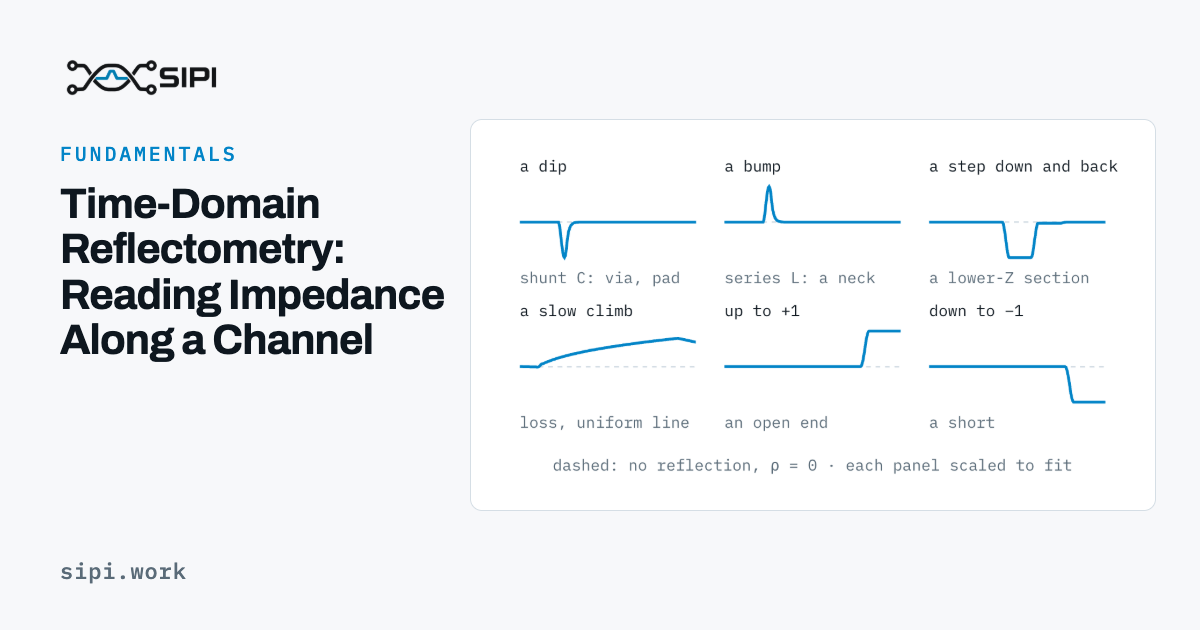
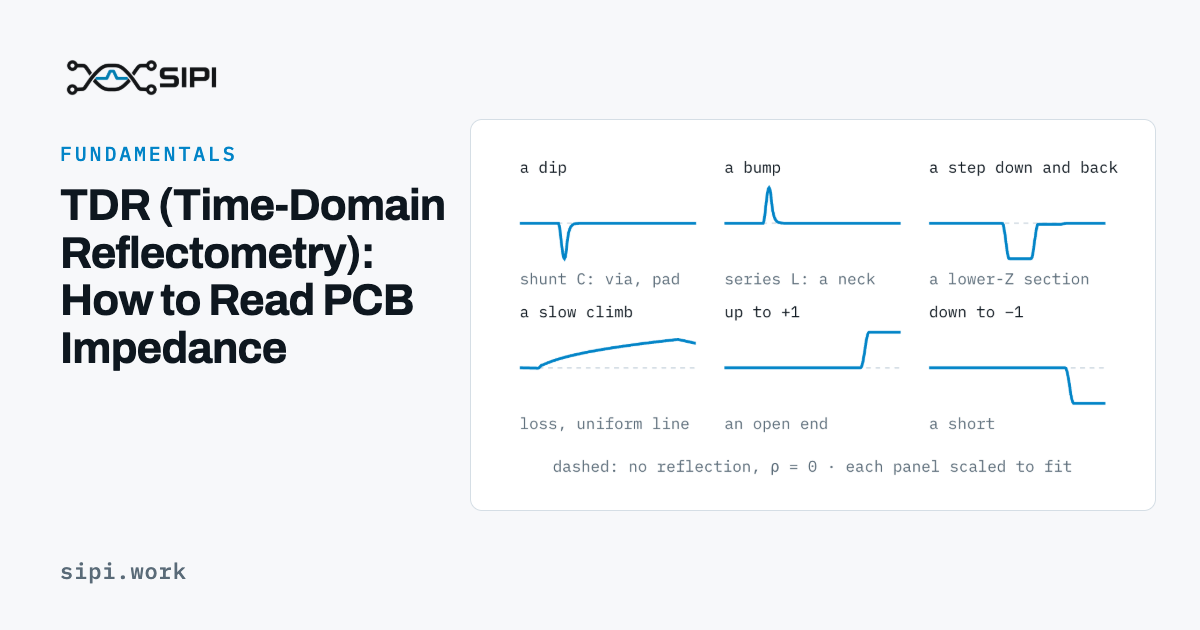
TDR page: an SEO title, TDR (Time-Domain Reflectometry): How to Read PCB Impedance
The search term leads, the full term follows, and the intent (reading PCB
impedance) is in the title; the URL is unchanged.

diff --git a/topics/fundamentals/tdr.html b/topics/fundamentals/tdr.html
@@ -7,7 +7,7 @@
   <meta name="theme-color" content="#F7F8FA">
   <script>(function(){try{var t=localStorage.getItem('sipi-theme');if(t==='dark'||t==='system'){document.documentElement.setAttribute('data-theme',t);var m=document.querySelector('meta[name=theme-color]');if(m&&(t==='dark'||matchMedia('(prefers-color-scheme:dark)').matches))m.content='#0B1015';}}catch(e){}})();</script>
   <!-- theme:end -->
-<title>Time-Domain Reflectometry: Reading Impedance Along a Channel | SIPI</title>
+<title>TDR (Time-Domain Reflectometry): How to Read PCB Impedance | SIPI</title>
 <meta name="description" content="How a TDR turns reflections into an impedance map of a channel: reading dips, bumps and steps, why the edge limits resolution, why loss and masking distort the reading, and how to measure a via from the area of its dip.">
 <link rel="preconnect" href="https://fonts.googleapis.com">
 <link rel="preconnect" href="https://fonts.gstatic.com" crossorigin>
@@ -19,20 +19,20 @@
   <link rel="describedby" href="https://sipi.work/llms.txt" type="text/markdown">
   <meta property="og:type" content="article">
   <meta property="og:site_name" content="SIPI">
-  <meta property="og:title" content="Time-Domain Reflectometry: Reading Impedance Along a Channel | SIPI">
+  <meta property="og:title" content="TDR (Time-Domain Reflectometry): How to Read PCB Impedance | SIPI">
   <meta property="og:description" content="How a TDR turns reflections into an impedance map of a channel: reading dips, bumps and steps, why the edge limits resolution, why loss and masking distort the reading, and how to measure a via from the area of its dip.">
   <meta property="og:url" content="https://sipi.work/topics/fundamentals/tdr.html">
   <meta property="og:image" content="https://sipi.work/assets/og/fundamentals/tdr.png">
   <meta property="og:image:width" content="1200">
   <meta property="og:image:height" content="630">
-  <meta property="og:image:alt" content="Time-Domain Reflectometry: Reading Impedance Along a Channel: a figure from the page, on SIPI">
+  <meta property="og:image:alt" content="TDR (Time-Domain Reflectometry): How to Read PCB Impedance: a figure from the page, on SIPI">
   <meta name="twitter:card" content="summary_large_image">
-  <meta name="twitter:title" content="Time-Domain Reflectometry: Reading Impedance Along a Channel | SIPI">
+  <meta name="twitter:title" content="TDR (Time-Domain Reflectometry): How to Read PCB Impedance | SIPI">
   <meta name="twitter:description" content="How a TDR turns reflections into an impedance map of a channel: reading dips, bumps and steps, why the edge limits resolution, why loss and masking distort the reading, and how to measure a via from the area of its dip.">
   <meta name="twitter:image" content="https://sipi.work/assets/og/fundamentals/tdr.png">
-  <meta name="twitter:image:alt" content="Time-Domain Reflectometry: Reading Impedance Along a Channel: a figure from the page, on SIPI">
-  <script type="application/ld+json">{"@context":"https://schema.org","@type":"TechArticle","headline":"Time-Domain Reflectometry: Reading Impedance Along a Channel","description":"How a TDR turns reflections into an impedance map of a channel: reading dips, bumps and steps, why the edge limits resolution, why loss and masking distort the reading, and how to measure a via from the area of its dip.","url":"https://sipi.work/topics/fundamentals/tdr.html","articleSection":"Fundamentals","isPartOf":{"@type":"WebSite","name":"SIPI","url":"https://sipi.work/"},"author":{"@type":"Person","name":"Geetansh Arora","jobTitle":"Principal SI/PI Engineer","url":"https://www.linkedin.com/in/geetansh-arora-a645714a/","sameAs":["https://www.linkedin.com/in/geetansh-arora-a645714a/"]},"publisher":{"@type":"Person","name":"Geetansh Arora"},"dateModified":"2026-10-01","image":"https://sipi.work/assets/og/fundamentals/tdr.png"}</script>
-  <script type="application/ld+json">{"@context":"https://schema.org","@type":"BreadcrumbList","itemListElement":[{"@type":"ListItem","position":1,"name":"SIPI","item":"https://sipi.work/"},{"@type":"ListItem","position":2,"name":"Fundamentals","item":"https://sipi.work/#fundamentals"},{"@type":"ListItem","position":3,"name":"Time-Domain Reflectometry: Reading Impedance Along a Channel"}]}</script>
+  <meta name="twitter:image:alt" content="TDR (Time-Domain Reflectometry): How to Read PCB Impedance: a figure from the page, on SIPI">
+  <script type="application/ld+json">{"@context":"https://schema.org","@type":"TechArticle","headline":"TDR (Time-Domain Reflectometry): How to Read PCB Impedance","description":"How a TDR turns reflections into an impedance map of a channel: reading dips, bumps and steps, why the edge limits resolution, why loss and masking distort the reading, and how to measure a via from the area of its dip.","url":"https://sipi.work/topics/fundamentals/tdr.html","articleSection":"Fundamentals","isPartOf":{"@type":"WebSite","name":"SIPI","url":"https://sipi.work/"},"author":{"@type":"Person","name":"Geetansh Arora","jobTitle":"Principal SI/PI Engineer","url":"https://www.linkedin.com/in/geetansh-arora-a645714a/","sameAs":["https://www.linkedin.com/in/geetansh-arora-a645714a/"]},"publisher":{"@type":"Person","name":"Geetansh Arora"},"dateModified":"2026-10-01","image":"https://sipi.work/assets/og/fundamentals/tdr.png"}</script>
+  <script type="application/ld+json">{"@context":"https://schema.org","@type":"BreadcrumbList","itemListElement":[{"@type":"ListItem","position":1,"name":"SIPI","item":"https://sipi.work/"},{"@type":"ListItem","position":2,"name":"Fundamentals","item":"https://sipi.work/#fundamentals"},{"@type":"ListItem","position":3,"name":"TDR (Time-Domain Reflectometry): How to Read PCB Impedance"}]}</script>
   <!-- meta:end -->
 </head>
 <body>
@@ -52,11 +52,11 @@
 <main>
   <div class="page-head">
     <p class="crumb"><a href="../../index.html#fundamentals">Fundamentals</a> / 05</p>
-    <h1>Time-Domain Reflectometry: Reading Impedance Along a Channel</h1>
+    <h1>TDR (Time-Domain Reflectometry): How to Read PCB Impedance</h1>
     <p class="byline">
       <!-- review:start --><span>By <a href="https://www.linkedin.com/in/geetansh-arora-a645714a/" target="_blank" rel="author noopener">Geetansh Arora</a> — Principal SI/PI Engineer</span><time datetime="2026-10-01" title="Technical review by Geetansh Arora on this date">1 Oct 2026</time><span>10 min</span><!-- review:end -->
     </p>
-    <!-- share:head:start --><div class="share share--head" data-share data-share-url="https://sipi.work/topics/fundamentals/tdr.html" data-share-title="Time-Domain Reflectometry: Reading Impedance Along a Channel"><span class="share__label">Share</span><a class="share__btn" href="https://www.linkedin.com/sharing/share-offsite/?url=https%3A%2F%2Fsipi.work%2Ftopics%2Ffundamentals%2Ftdr.html" target="_blank" rel="noopener">LinkedIn</a><a class="share__btn" href="https://x.com/intent/post?url=https%3A%2F%2Fsipi.work%2Ftopics%2Ffundamentals%2Ftdr.html&amp;text=Time-Domain%20Reflectometry%3A%20Reading%20Impedance%20Along%20a%20Channel" target="_blank" rel="noopener">X</a><a class="share__btn" href="mailto:?subject=Time-Domain%20Reflectometry%3A%20Reading%20Impedance%20Along%20a%20Channel&amp;body=https%3A%2F%2Fsipi.work%2Ftopics%2Ffundamentals%2Ftdr.html" target="_blank" rel="noopener">Email</a><button class="share__btn" type="button" data-act="copy-link">Copy link</button><button class="share__btn" type="button" data-act="share-native" hidden>Share…</button></div><!-- share:head:end -->
+    <!-- share:head:start --><div class="share share--head" data-share data-share-url="https://sipi.work/topics/fundamentals/tdr.html" data-share-title="TDR (Time-Domain Reflectometry): How to Read PCB Impedance"><span class="share__label">Share</span><a class="share__btn" href="https://www.linkedin.com/sharing/share-offsite/?url=https%3A%2F%2Fsipi.work%2Ftopics%2Ffundamentals%2Ftdr.html" target="_blank" rel="noopener">LinkedIn</a><a class="share__btn" href="https://x.com/intent/post?url=https%3A%2F%2Fsipi.work%2Ftopics%2Ffundamentals%2Ftdr.html&amp;text=TDR%20%28Time-Domain%20Reflectometry%29%3A%20How%20to%20Read%20PCB%20Impedance" target="_blank" rel="noopener">X</a><a class="share__btn" href="mailto:?subject=TDR%20%28Time-Domain%20Reflectometry%29%3A%20How%20to%20Read%20PCB%20Impedance&amp;body=https%3A%2F%2Fsipi.work%2Ftopics%2Ffundamentals%2Ftdr.html" target="_blank" rel="noopener">Email</a><button class="share__btn" type="button" data-act="copy-link">Copy link</button><button class="share__btn" type="button" data-act="share-native" hidden>Share…</button></div><!-- share:head:end -->
     <p class="answer">
       A time-domain reflectometer sends a fast step into a channel and records what comes back. Every change in
       impedance returns part of the step, and it returns after the time it takes to get there and back, so the trace
@@ -362,7 +362,7 @@
       <li><a href="../labs/one-channel.html">Lab B: Channel Response, ISI, and Eye Diagrams</a> — a TDR beside the eye it explains</li>
     </ul>
   </div>
-  <!-- share:foot:start --><div class="share share--foot" data-share data-share-url="https://sipi.work/topics/fundamentals/tdr.html" data-share-title="Time-Domain Reflectometry: Reading Impedance Along a Channel"><span class="share__label">Share</span><a class="share__btn" href="https://www.linkedin.com/sharing/share-offsite/?url=https%3A%2F%2Fsipi.work%2Ftopics%2Ffundamentals%2Ftdr.html" target="_blank" rel="noopener">LinkedIn</a><a class="share__btn" href="https://x.com/intent/post?url=https%3A%2F%2Fsipi.work%2Ftopics%2Ffundamentals%2Ftdr.html&amp;text=Time-Domain%20Reflectometry%3A%20Reading%20Impedance%20Along%20a%20Channel" target="_blank" rel="noopener">X</a><a class="share__btn" href="mailto:?subject=Time-Domain%20Reflectometry%3A%20Reading%20Impedance%20Along%20a%20Channel&amp;body=https%3A%2F%2Fsipi.work%2Ftopics%2Ffundamentals%2Ftdr.html" target="_blank" rel="noopener">Email</a><button class="share__btn" type="button" data-act="copy-link">Copy link</button><button class="share__btn" type="button" data-act="share-native" hidden>Share…</button></div><!-- share:foot:end -->
+  <!-- share:foot:start --><div class="share share--foot" data-share data-share-url="https://sipi.work/topics/fundamentals/tdr.html" data-share-title="TDR (Time-Domain Reflectometry): How to Read PCB Impedance"><span class="share__label">Share</span><a class="share__btn" href="https://www.linkedin.com/sharing/share-offsite/?url=https%3A%2F%2Fsipi.work%2Ftopics%2Ffundamentals%2Ftdr.html" target="_blank" rel="noopener">LinkedIn</a><a class="share__btn" href="https://x.com/intent/post?url=https%3A%2F%2Fsipi.work%2Ftopics%2Ffundamentals%2Ftdr.html&amp;text=TDR%20%28Time-Domain%20Reflectometry%29%3A%20How%20to%20Read%20PCB%20Impedance" target="_blank" rel="noopener">X</a><a class="share__btn" href="mailto:?subject=TDR%20%28Time-Domain%20Reflectometry%29%3A%20How%20to%20Read%20PCB%20Impedance&amp;body=https%3A%2F%2Fsipi.work%2Ftopics%2Ffundamentals%2Ftdr.html" target="_blank" rel="noopener">Email</a><button class="share__btn" type="button" data-act="copy-link">Copy link</button><button class="share__btn" type="button" data-act="share-native" hidden>Share…</button></div><!-- share:foot:end -->
 
   <!-- pager:start -->
   <nav class="pager" aria-label="Previous and next topic">

diff --git a/index.html b/index.html
@@ -192,7 +192,7 @@
         <div class="topic is-live"><a href="topics/fundamentals/when-is-a-trace-a-transmission-line.html">When does a trace become a transmission line?</a></div>
         <div class="topic is-live"><a href="topics/fundamentals/characteristic-impedance.html">Transmission-Line Characteristic Impedance</a></div>
         <div class="topic is-live"><a href="topics/fundamentals/reflections.html">Transmission-Line Reflections and Ringing</a></div>
-        <div class="topic is-live"><a href="topics/fundamentals/tdr.html">Time-Domain Reflectometry: Reading Impedance Along a Channel</a></div>
+        <div class="topic is-live"><a href="topics/fundamentals/tdr.html">TDR (Time-Domain Reflectometry): How to Read PCB Impedance</a></div>
         <div class="topic is-live"><a href="topics/fundamentals/termination-schemes.html">Transmission-Line Termination Schemes</a></div>
         <div class="topic is-live"><a href="topics/fundamentals/return-current-paths.html">Return-Current Paths and Reference Continuity</a></div>
         <div class="topic is-live"><a href="topics/fundamentals/crosstalk.html">PCB Crosstalk: NEXT, FEXT, and Mutual Coupling</a></div>

diff --git a/topics/fundamentals/reflections.html b/topics/fundamentals/reflections.html
@@ -444,7 +444,7 @@
   <!-- pager:start -->
   <nav class="pager" aria-label="Previous and next topic">
     <a class="prev" href="../../topics/fundamentals/characteristic-impedance.html"><span class="dir">Previous</span><span>Transmission-Line Characteristic Impedance</span></a>
-    <a class="next" href="../../topics/fundamentals/tdr.html"><span class="dir">Next</span><span>Time-Domain Reflectometry: Reading Impedance Along a Channel</span></a>
+    <a class="next" href="../../topics/fundamentals/tdr.html"><span class="dir">Next</span><span>TDR (Time-Domain Reflectometry): How to Read PCB Impedance</span></a>
   </nav>
   <!-- pager:end -->
 </main>

diff --git a/topics/fundamentals/termination-schemes.html b/topics/fundamentals/termination-schemes.html
@@ -377,7 +377,7 @@
 
   <!-- pager:start -->
   <nav class="pager" aria-label="Previous and next topic">
-    <a class="prev" href="../../topics/fundamentals/tdr.html"><span class="dir">Previous</span><span>Time-Domain Reflectometry: Reading Impedance Along a Channel</span></a>
+    <a class="prev" href="../../topics/fundamentals/tdr.html"><span class="dir">Previous</span><span>TDR (Time-Domain Reflectometry): How to Read PCB Impedance</span></a>
     <a class="next" href="../../topics/fundamentals/return-current-paths.html"><span class="dir">Next</span><span>Return-Current Paths and Reference Continuity</span></a>
   </nav>
   <!-- pager:end -->

diff --git a/README.md b/README.md
@@ -25,7 +25,7 @@ HTTP, and it hides itself when it cannot fetch `topics.json`.
 | | |
 |---|---|
 | Topic pages | **74**, all `live`, each with a `deeper` section and its own review date |
-| Words | 151247; median 2177 per page |
+| Words | 151250; median 2177 per page |
 | Interactive panels | **42**, including four labs and twelve calculators |
 | SVG figures | 86 |
 | Arithmetic claims checked | **165** across 43 pages (`check-numbers.py`) |
